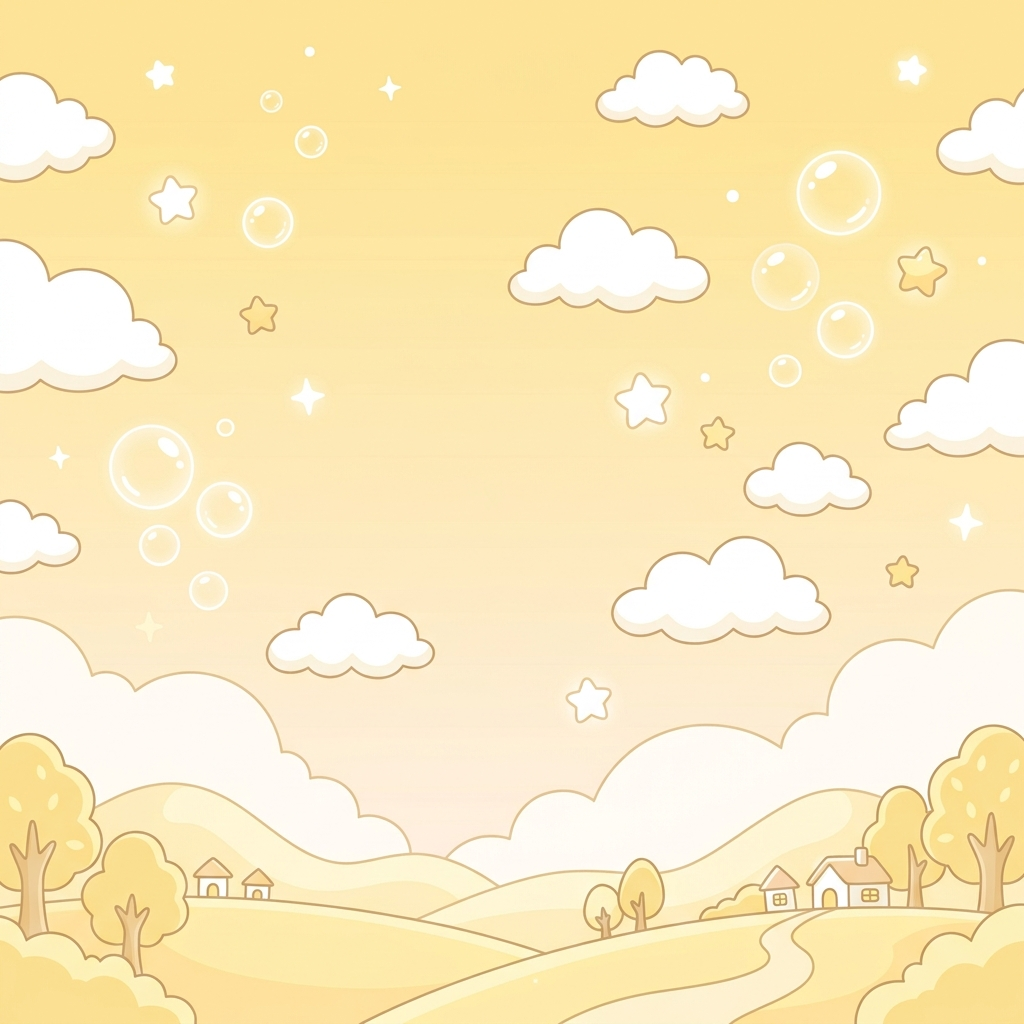
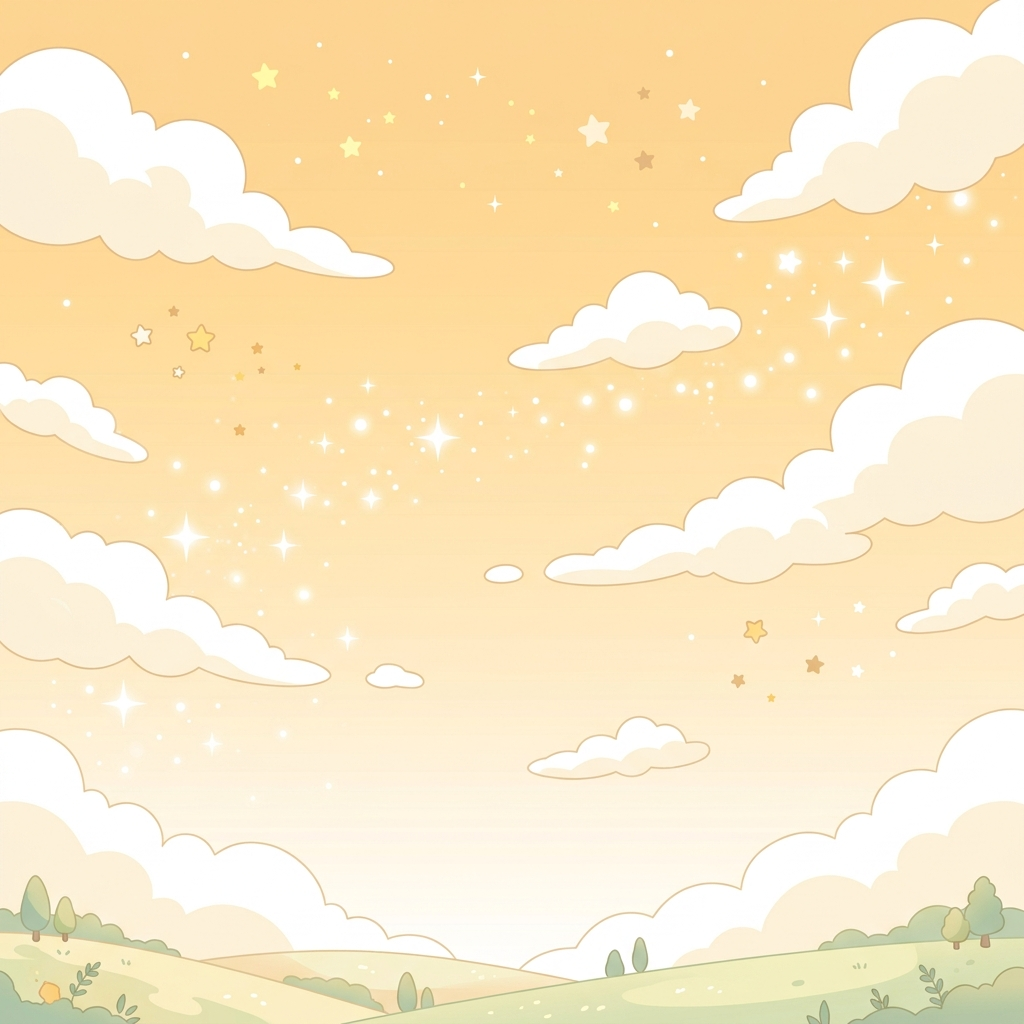
fix: revert cute theme to yellow/amber, remove header mode toggle, add fullscreen zoom toggle

diff --git a/tools/knowledge-king-pk/index.html b/tools/knowledge-king-pk/index.html
@@ -163,10 +163,10 @@
     <div v-if="gameState === 'LOBBY'" class="flex-1 overflow-y-auto p-4 md:p-8 relative z-10">
       <!-- Lobby Header controls -->
       <div class="absolute top-4 right-4 flex items-center gap-2 z-30">
-        <button @click="playMode = (playMode === 'guide' ? 'async' : 'guide')" 
-                class="px-4 py-2 rounded-full font-bold text-sm bg-white/95 shadow-md border-2 transition flex items-center gap-2 hover:scale-105 active:scale-95"
-                :class="playMode === 'guide' ? 'border-blue-500 text-blue-600 bg-blue-50' : 'border-gray-300 text-gray-700 hover:bg-gray-50'">
-          <i class="fa-solid fa-graduation-cap"></i> <span>{{ playMode === 'guide' ? '切換對戰模式' : '切換教學模式' }}</span>
+        <button @click="toggleFullscreen" 
+                class="px-4 py-2 rounded-full font-bold text-sm bg-white/95 shadow-md border-2 border-gray-300 text-gray-700 transition flex items-center gap-2 hover:scale-105 active:scale-95 hover:bg-gray-50">
+          <i :class="isFullscreen ? 'fa-solid fa-compress' : 'fa-solid fa-expand'" class="mr-1"></i>
+          <span>{{ isFullscreen ? '退出全螢幕' : '全螢幕' }}</span>
         </button>
         <button @click="bgStyle = (bgStyle === 'gradient' ? 'illustration' : 'gradient')" 
                 class="px-4 py-2 rounded-full font-bold text-sm bg-white/95 shadow-md border-2 border-gray-300 text-gray-700 transition flex items-center gap-2 hover:scale-105 active:scale-95 hover:bg-gray-50">
@@ -349,20 +349,6 @@
           </div>
         </div>
         
-        <!-- Mode Quick Toggle -->
-        <div class="lg:col-span-2 flex justify-center gap-4 mt-6">
-          <button @click="playMode = 'async'" 
-                  class="px-8 py-4 rounded-2xl font-bold text-xl shadow-md transition flex items-center gap-2 border-2 hover:scale-105 active:scale-95"
-                  :class="playMode !== 'guide' ? 'bg-orange-500 text-white border-orange-600 shadow-[0_4px_0_#c2410c]' : 'bg-white/90 text-gray-700 border-gray-300 hover:bg-gray-100'">
-            <i class="fa-solid fa-people-arrows"></i> <span>⚔️ 雙人競賽模式</span>
-          </button>
-          <button @click="playMode = 'guide'" 
-                  class="px-8 py-4 rounded-2xl font-bold text-xl shadow-md transition flex items-center gap-2 border-2 hover:scale-105 active:scale-95"
-                  :class="playMode === 'guide' ? 'bg-blue-600 text-white border-blue-700 shadow-[0_4px_0_#1d4ed8]' : 'bg-white/90 text-gray-700 border-gray-300 hover:bg-gray-100'">
-            <i class="fa-solid fa-graduation-cap"></i> <span>🧑🏫 教學引導模式 (單獨問答)</span>
-          </button>
-        </div>
-
         <!-- Start Button -->
         <div class="lg:col-span-2 flex justify-center mt-4">
           <button @click="startGame" :disabled="questions.length === 0" class="py-5 px-20 text-3xl font-black rounded-full shadow-[0_10px_0_rgba(0,0,0,0.2)] transition bg-gradient-to-r from-green-400 to-emerald-600 text-white hover:from-green-300 hover:to-emerald-500 disabled:opacity-50 disabled:cursor-not-allowed hover:scale-105 active:translate-y-2 active:shadow-none">
@@ -383,6 +369,11 @@
           <span :class="{'text-red-500 animate-pulse': globalTimeLeft <= 10}">{{ formatTime(globalTimeLeft) }}</span>
         </div>
         <div class="flex gap-4 items-center">
+          <button @click="toggleFullscreen" 
+                  class="px-4 py-2 rounded-full font-bold text-sm bg-white/90 shadow transition flex items-center gap-2 hover:scale-105 active:scale-95 border border-gray-300 text-gray-700 hover:bg-gray-100">
+            <i :class="isFullscreen ? 'fa-solid fa-compress' : 'fa-solid fa-expand'"></i>
+            <span>{{ isFullscreen ? '退出全螢幕' : '全螢幕' }}</span>
+          </button>
           <button @click="bgStyle = (bgStyle === 'gradient' ? 'illustration' : 'gradient')" 
                   class="px-4 py-2 rounded-full font-bold text-sm bg-white/90 shadow transition flex items-center gap-2 hover:scale-105 active:scale-95 border border-gray-300 text-gray-700 hover:bg-gray-100">
             <i :class="bgStyle === 'gradient' ? 'fa-solid fa-image' : 'fa-solid fa-palette'" class="mr-1"></i>
@@ -715,6 +706,7 @@
         const shuffleOptions = ref(true);
         const useBpmfFont = ref(false);
         const bgStyle = ref('gradient'); // 'gradient' or 'illustration'
+        const isFullscreen = ref(false);
         const sourceFile = ref(null);
         const sourceStatus = ref('');
         const sourceStatusType = ref('info');
@@ -896,13 +888,33 @@
           }
         };
 
+        const toggleFullscreen = () => {
+          if (!document.fullscreenElement) {
+            document.documentElement.requestFullscreen().then(() => {
+              isFullscreen.value = true;
+            }).catch(err => {
+              console.error(`Error attempting to enable full-screen mode: ${err.message}`);
+            });
+          } else {
+            document.exitFullscreen().then(() => {
+              isFullscreen.value = false;
+            });
+          }
+        };
+
+        const handleFullscreenChange = () => {
+          isFullscreen.value = !!document.fullscreenElement;
+        };
+
         onMounted(() => {
           parseCSVText();
           document.addEventListener('paste', handleGlobalPaste);
+          document.addEventListener('fullscreenchange', handleFullscreenChange);
         });
 
         onUnmounted(() => {
           document.removeEventListener('paste', handleGlobalPaste);
+          document.removeEventListener('fullscreenchange', handleFullscreenChange);
         });
 
         const handleFileUpload = (e) => {
@@ -1232,7 +1244,7 @@
 
         return {
           gameState, theme, themes, matchTimeLimit, scoreMode, playMode, shuffleOptions,
-          useBpmfFont, bgStyle, sourceFile, sourceStatus, sourceStatusType, isGenerating, sourceInput, importedTitle,
+          useBpmfFont, bgStyle, isFullscreen, toggleFullscreen, sourceFile, sourceStatus, sourceStatusType, isGenerating, sourceInput, importedTitle,
           avatars, p1, p2, rawQuestionsText, questions, handleFileUpload, downloadCSVTemplate,
           handleSourceUpload, generateQuestionsFromSource, downloadCurrentCSV, speakText, speakQuestion,
           startGame, globalTimeLeft, isPaused, p1State, p2State,